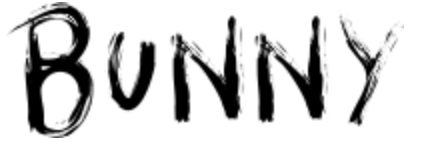
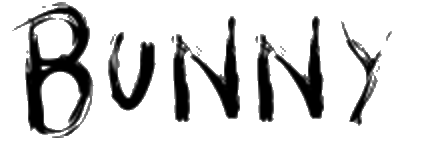
change art-font-bunny.png by theme changing,use ThemePicker in header

diff --git a/src/navigation/NavigatorTree/NavigatorTree.tsx b/src/navigation/NavigatorTree/NavigatorTree.tsx
@@ -67,7 +67,7 @@ import {linking} from "./linking";
 import {IGMediaScreen} from "../../screens/DemoIG/Media";
 import {PlaygroundScreen} from "../../screens/Playground";
 import {ColorFinderScreen} from "../../screens/ColorFinder";
-import {ThemeSwitch} from "../../components/ThemeSwitch";
+import {ThemePicker} from "../../components/ThemePicker";
 
 type DrawerScreenOptions = DefaultNavigatorOptions<DrawerNavigationOptions>["screenOptions"]
 type TabBarScreenOptions = DefaultNavigatorOptions<BottomTabNavigationOptions>["screenOptions"]
@@ -86,7 +86,8 @@ const NavigatorTree: React.FC<NavigatorTreeProps> = (props) => {
     const {authResult, authFunctions} = useAuthLabor()
     const dispatch = useDispatch();
     const {wp} = designsBasedOn.iphoneX;
-    const {colors} = useThemeLabor().theme;
+    const {theme} = useThemeLabor();
+    const {colors} = theme;
     const {t} = useTranslation();
     const styles = createStyles();
     const insets = useSafeAreaInsets();
@@ -94,7 +95,7 @@ const NavigatorTree: React.FC<NavigatorTreeProps> = (props) => {
     // --- options start ---
     const screenOptionsStackCommonHeaderRight = () => {
         return (<View style={styles.settingBox}>
-            <ThemeSwitch/>
+            <ThemePicker/>
         </View>)
     }
 
@@ -168,7 +169,10 @@ const NavigatorTree: React.FC<NavigatorTreeProps> = (props) => {
                         marginRight: wp(10)
                     }}/></View>
         },
-        headerTitle: () => <Image style={{width: wp(100), height: wp(30)}} source={require('../../assets/images/art-font-bunny.png')}/>,
+        headerTitle: () => <Image style={{width: wp(100), height: wp(30)}}
+                                  source={theme.dark
+                                      ? require('../../assets/images/art-font-bunny-white.png')
+                                      : require('../../assets/images/art-font-bunny.png')}/>,
     }
 
     const screenOptionsTabBarIcon: TabBarScreenOptions = ({route}) => {

diff --git a/src/components/ThemePicker/ThemePicker.tsx b/src/components/ThemePicker/ThemePicker.tsx
@@ -1,29 +1,29 @@
 import {useThemeLabor} from "../../providers/theme-labor";
 import * as React from "react";
-import {useEffect, useState} from "react";
 import {EThemes} from "../../constants";
 import {PickerSelect} from "../UI";
+import {ThemeName} from "../../types";
 
 export function ThemePicker() {
     const themeLabor = useThemeLabor();
     const {changeTheme, currentThemeName} = themeLabor;
-    const [themeName, setThemeName] = useState(currentThemeName)
+
     const themeLabels = Object.keys(EThemes).map((themeName) => {
         return {label: themeName, value: themeName}
     })
-    useEffect(() => {
-        setThemeName(currentThemeName)
-    }, [currentThemeName])
+
+    const handleValueChange = async (itemValue: ThemeName) => {
+        console.log('---4?handleValueChange', itemValue)
+        // todo always be invoked 4 times
+        if (itemValue) {
+            await changeTheme(itemValue);
+        }
+    }
 
     return <PickerSelect
-        value={themeName}
+        value={currentThemeName}
         placeholder={{label: 'Select ', value: ''}}
-        onValueChange={async (itemValue) => {
-            setThemeName(itemValue)
-            if (itemValue) {
-                await changeTheme(itemValue);
-            }
-        }}
+        onValueChange={handleValueChange}
         items={themeLabels}
     />
 }

diff --git a/src/providers/theme-labor/ThemeLaborProvider.tsx b/src/providers/theme-labor/ThemeLaborProvider.tsx
@@ -25,6 +25,7 @@ function ThemeLaborProvider(props: ThemeProviderProps): JSX.Element {
     const [themeName, setThemeName] = useState(EThemes.light)
     const [theme, setTheme] = useState(themes[themeName]);
     const changeTheme = async (themeName: ThemeName) => {
+        console.log('---themeName in provider', themeName)
         if (Object.keys(EThemes).includes(themeName)) {
             await AsyncStorage.setItem(BunnyConstants.THEME_NAME_PERSISTENCE_KEY, themeName)
             setThemeName(themeName);
@@ -66,9 +67,11 @@ function ThemeLaborProvider(props: ThemeProviderProps): JSX.Element {
         return () => Dimensions.removeEventListener('change', onDimensionsChange);
     });
     const themeLaborMemorized = useMemo(
-        () => ({theme, currentThemeName: themeName, themes, changeTheme, sysColorSchemeName})
+        () => {
+            return {theme, currentThemeName: themeName, themes, changeTheme, sysColorSchemeName}
+        }
         , [theme, changeTheme, themeName, sysColorSchemeName])
-
+    // const themeLaborMemorized = {theme, currentThemeName: themeName, themes, changeTheme, sysColorSchemeName}
     return (
         isReady
             ? <ThemeLaborContext.Provider value={themeLaborMemorized}>

diff --git a/src/components/UI/styles.ts b/src/components/UI/styles.ts
@@ -21,11 +21,12 @@ export const createStyles = (sizeLabor: SizeLabor, themeLabor: ThemeLabor) => {
     });
     const PickerSelect = StyleSheet.create({
         input: {
-            minWidth: wp(100),
-            height: (40),
+            minWidth: wp(80),
+            height: wp(30),
             backgroundColor: colors.background,
             borderWidth: wp(1),
             borderColor: colors.border,
+            borderRadius: ms.br.xs,
             paddingHorizontal: ms.sp.m,
             color: colors.text,
             textAlign: 'right',

diff --git a/src/providers/theme-labor/theme.ts b/src/providers/theme-labor/theme.ts
@@ -379,7 +379,7 @@ export const getThemeWareHouse = () => {
             accent: {
                 light: pl.purple500,
                 dark: pl.blue600,
-                gradient: pl.blue600
+                gradient: pl.lightBlue630
             },
             accentSecondary: {
                 light: pl.blue300,

diff --git a/src/providers/theme-labor/ThemeLaborContext.tsx b/src/providers/theme-labor/ThemeLaborContext.tsx
@@ -9,6 +9,7 @@ const ThemeLaborContext = React.createContext<ThemeLabor>({
     currentThemeName: EThemes.light,
     themes: themes,
     changeTheme: (themeName: ThemeName) => {
+        console.log('---themeName in context', themeName)
     },
     sysColorSchemeName: 'light'
 });
